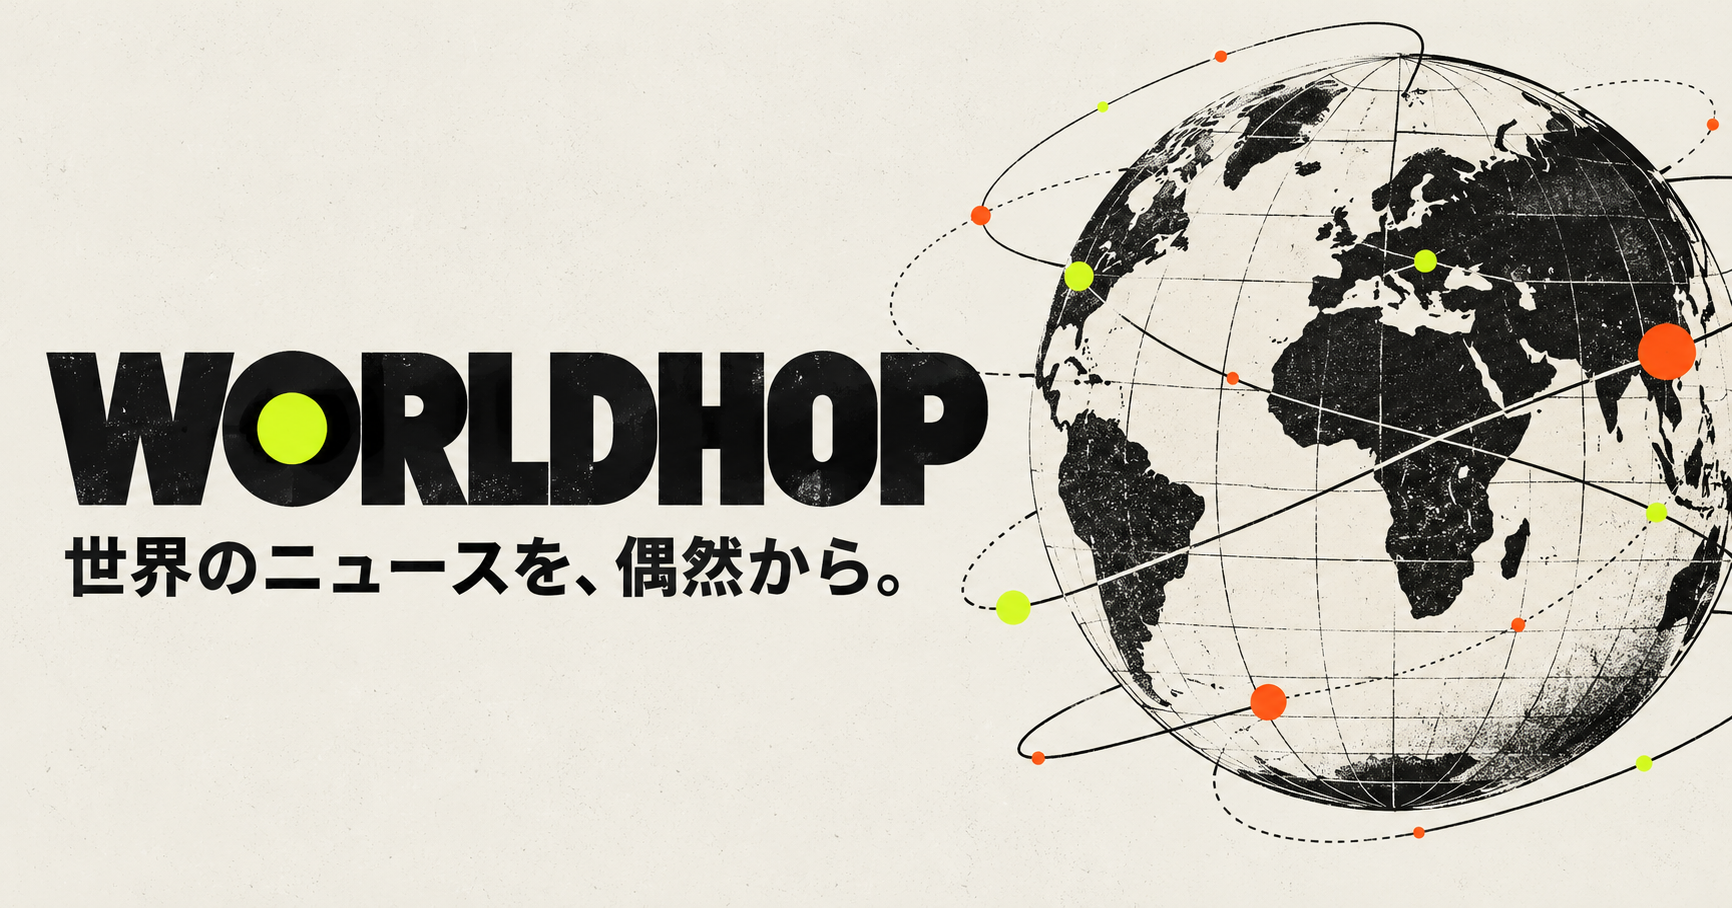
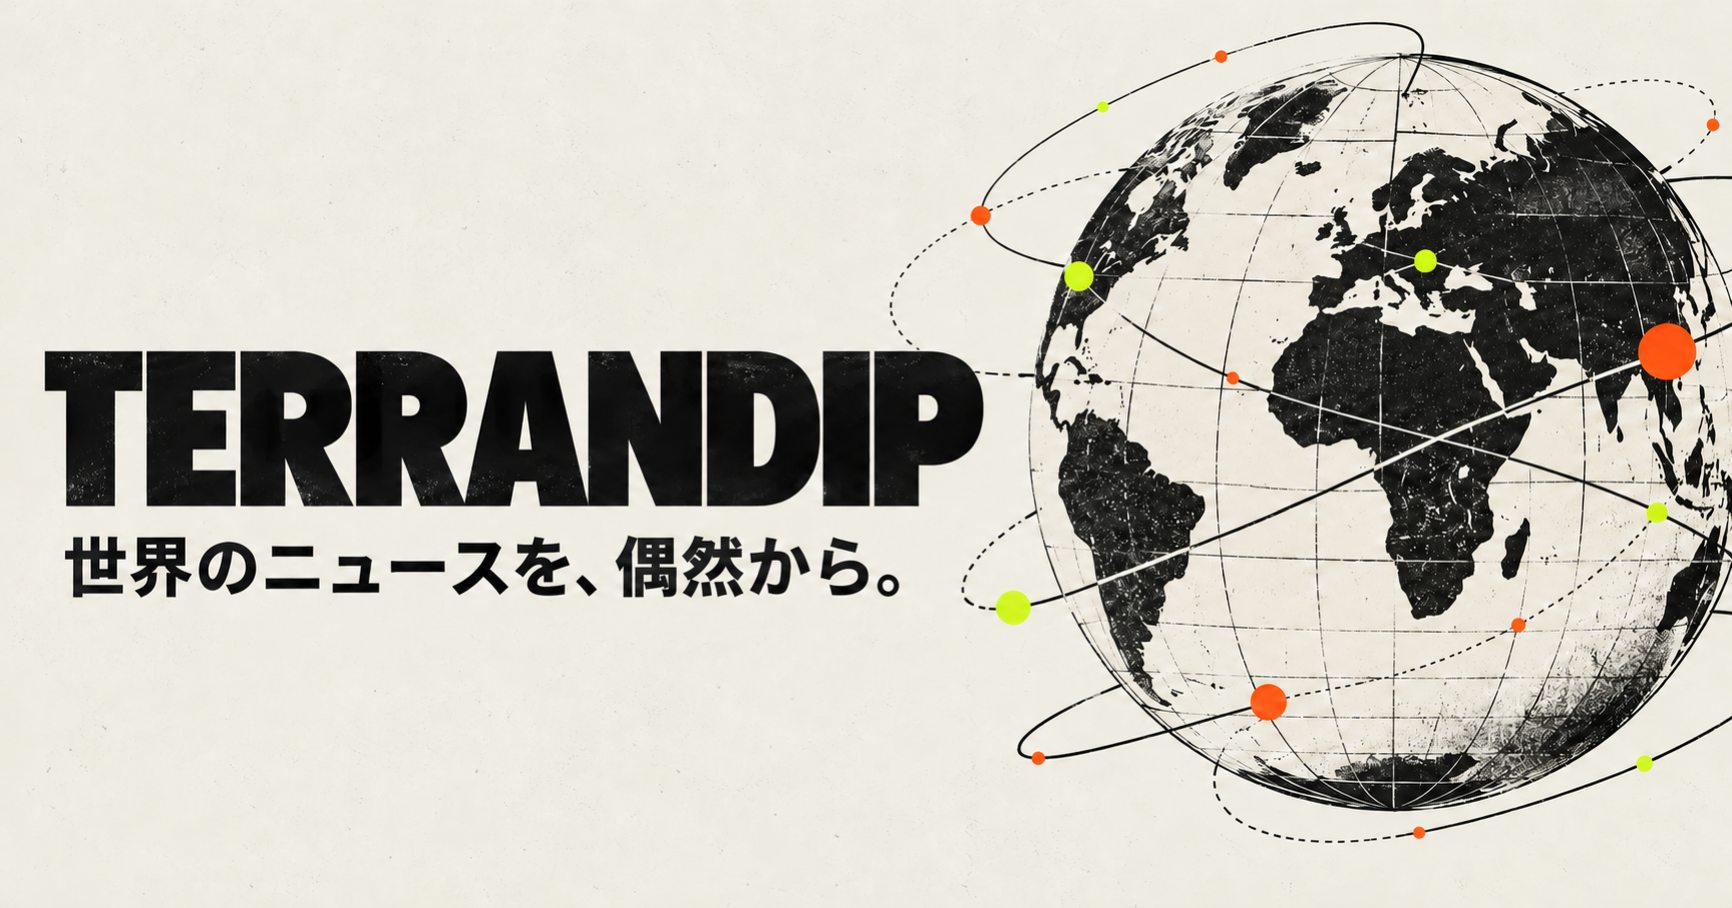
Rename site to TERRANDIP

diff --git a/app/NewsExplorer.tsx b/app/NewsExplorer.tsx
@@ -777,9 +777,9 @@ export function NewsExplorer({ auth }: { auth: AuthState }) {
   return (
     <main className="site-shell">
       <header className="topbar">
-        <a className="brand" href="#top" aria-label="WORLDHOP ホーム">
-          <span className="brand-mark">W</span>
-          <span>WORLDHOP</span>
+        <a className="brand" href="#top" aria-label="TERRANDIP ホーム">
+          <span className="brand-mark">T</span>
+          <span>TERRANDIP</span>
         </a>
         <div className="live-indicator"><i /> LIVE WORLD FEED</div>
         <div className="topbar-actions">
@@ -1055,7 +1055,7 @@ export function NewsExplorer({ auth }: { auth: AuthState }) {
             onMouseDown={(event) => event.stopPropagation()}
           >
             <button className="reader-close" onClick={() => setReaderArticleId(null)} aria-label="詳細を閉じる">×</button>
-            <div className="reader-kicker"><span>WORLDHOP READER</span><span>SHORT SUMMARY</span></div>
+            <div className="reader-kicker"><span>TERRANDIP READER</span><span>SHORT SUMMARY</span></div>
             <h3 id="reader-title">{readerTitle}</h3>
             <div className="reader-meta">
               <div><span>SOURCE</span><strong>{readerArticle.source}</strong></div>
@@ -1092,7 +1092,7 @@ export function NewsExplorer({ auth }: { auth: AuthState }) {
             onMouseDown={(event) => event.stopPropagation()}
           >
             <button className="account-close" onClick={() => setAccountOpen(false)} aria-label="アカウント画面を閉じる">×</button>
-            <span className="account-kicker">WORLDHOP ACCOUNT</span>
+            <span className="account-kicker">TERRANDIP ACCOUNT</span>
             {auth.user ? (
               <>
                 <div className="account-identity">
@@ -1109,7 +1109,7 @@ export function NewsExplorer({ auth }: { auth: AuthState }) {
                 </div>
                 <div className="account-safe-note">
                   <b>パスワードを保存しない設計</b>
-                  <p>ログイン確認はChatGPTが担当します。WORLDHOPにはパスワード、認証トークン、ログイン用Cookieを保存しません。</p>
+                  <p>ログイン確認はChatGPTが担当します。TERRANDIPにはパスワード、認証トークン、ログイン用Cookieを保存しません。</p>
                 </div>
                 <a className="account-signout" href={auth.signOutPath}>ログアウト <span>→</span></a>
               </>
@@ -1117,7 +1117,7 @@ export function NewsExplorer({ auth }: { auth: AuthState }) {
               <>
                 <h2 id="account-title">アカウント作成<br />またはログイン</h2>
                 <p className="account-lead">
-                  ChatGPTの安全なログイン画面を利用します。初回ログイン時にWORLDHOPアカウントが自動で作成されます。
+                  ChatGPTの安全なログイン画面を利用します。初回ログイン時にTERRANDIPアカウントが自動で作成されます。
                 </p>
                 <div className="account-benefits">
                   <div><span>01</span><b>新しいパスワードは不要</b></div>
@@ -1143,15 +1143,15 @@ export function NewsExplorer({ auth }: { auth: AuthState }) {
         <span className="section-number">02</span>
         <p>いつもの視点から、<br /><em>少しだけ遠くへ。</em></p>
         <div className="manifesto-note">
-          <b>WORLDHOP</b>
+          <b>TERRANDIP</b>
           <span>偏りのない世界はない。<br />だからこそ、偶然の入口を。</span>
         </div>
       </section>
 
       <footer>
-        <a className="brand footer-brand" href="#top"><span className="brand-mark">W</span><span>WORLDHOP</span></a>
+        <a className="brand footer-brand" href="#top"><span className="brand-mark">T</span><span>TERRANDIP</span></a>
         <p>NEWS: NEWSDATA.IO · TRANSLATION: DEEPL</p>
-        <p>© 2026 WORLDHOP</p>
+        <p>© 2026 TERRANDIP</p>
       </footer>
     </main>
   );

diff --git a/app/page.tsx b/app/page.tsx
@@ -1,5 +1,5 @@
 import type { Metadata } from "next";
-import { ensureWorldhopAccount } from "../db/accounts";
+import { ensureTerrandipAccount } from "../db/accounts";
 import {
   chatGPTSignInPath,
   chatGPTSignOutPath,
@@ -10,7 +10,7 @@ import { NewsExplorer } from "./NewsExplorer";
 export const dynamic = "force-dynamic";
 
 export const metadata: Metadata = {
-  title: "WORLDHOP — 世界のニュースを、偶然から。",
+  title: "TERRANDIP — 世界のニュースを、偶然から。",
   description:
     "世界中のニュースから、今まで知らなかった一本にランダムで出会えるニュースルーレット。",
 };
@@ -22,11 +22,11 @@ export default async function Home() {
 
   if (user) {
     try {
-      const account = await ensureWorldhopAccount(user);
+      const account = await ensureTerrandipAccount(user);
       accountCreatedAt = account.createdAt;
     } catch (error) {
       accountStorageReady = false;
-      console.error("WORLDHOP account storage is unavailable", error);
+      console.error("TERRANDIP account storage is unavailable", error);
     }
   }
 

diff --git a/app/layout.tsx b/app/layout.tsx
@@ -15,18 +15,18 @@ export async function generateMetadata(): Promise<Metadata> {
 
   return {
     metadataBase: baseUrl,
-    title: "WORLDHOP — 世界のニュースを、偶然から。",
+    title: "TERRANDIP — 世界のニュースを、偶然から。",
     description: "世界のどこかで今起きている出来事へ。ランダムにニュースと出会う、新しい入口。",
     icons: { icon: "/favicon.svg", shortcut: "/favicon.svg" },
     openGraph: {
-      title: "WORLDHOP",
+      title: "TERRANDIP",
       description: "世界のニュースを、偶然から。",
       type: "website",
-      images: [{ url: socialImage, width: 1732, height: 904, alt: "WORLDHOP — 世界のニュースを、偶然から。" }],
+      images: [{ url: socialImage, width: 1732, height: 908, alt: "TERRANDIP — 世界のニュースを、偶然から。" }],
     },
     twitter: {
       card: "summary_large_image",
-      title: "WORLDHOP",
+      title: "TERRANDIP",
       description: "世界のニュースを、偶然から。",
       images: [socialImage],
     },

diff --git a/app/api/translate/route.ts b/app/api/translate/route.ts
@@ -106,7 +106,7 @@ export async function POST(request: NextRequest) {
   if (!pending.size) {
     return NextResponse.json(
       { translations: cacheKeys.map((key) => resolved.get(key) || ""), detectedLanguage: null, cached: true },
-      { headers: { "Cache-Control": "private, no-store, max-age=0", "X-WORLDHOP-Cache": "HIT", "X-Content-Type-Options": "nosniff" } },
+      { headers: { "Cache-Control": "private, no-store, max-age=0", "X-TERRANDIP-Cache": "HIT", "X-Content-Type-Options": "nosniff" } },
     );
   }
 
@@ -163,7 +163,7 @@ export async function POST(request: NextRequest) {
         detectedLanguage: data.translations?.[0]?.detected_source_language || null,
         cached: false,
       },
-      { headers: { "Cache-Control": "private, no-store, max-age=0", "X-WORLDHOP-Cache": "MISS", "X-Content-Type-Options": "nosniff" } },
+      { headers: { "Cache-Control": "private, no-store, max-age=0", "X-TERRANDIP-Cache": "MISS", "X-Content-Type-Options": "nosniff" } },
     );
   } catch (error) {
     if (error instanceof Error && error.name === "AbortError") {

diff --git a/db/accounts.ts b/db/accounts.ts
@@ -3,12 +3,12 @@ import type { ChatGPTUser } from "../app/chatgpt-auth";
 import { getDb } from ".";
 import { users } from "./schema";
 
-export type WorldhopAccount = {
+export type TerrandipAccount = {
   id: string;
   createdAt: string;
 };
 
-export async function ensureWorldhopAccount(user: ChatGPTUser): Promise<WorldhopAccount> {
+export async function ensureTerrandipAccount(user: ChatGPTUser): Promise<TerrandipAccount> {
   const email = user.email.trim().toLowerCase().slice(0, 320);
   const displayName = user.displayName.trim().slice(0, 200) || email;
   if (!email || !email.includes("@")) {

diff --git a/db/schema.ts b/db/schema.ts
@@ -2,7 +2,7 @@ import { sql } from "drizzle-orm";
 import { index, sqliteTable, text } from "drizzle-orm/sqlite-core";
 
 // Authentication itself is owned by the Sites dispatcher. This table stores
-// only the WORLDHOP profile linked to that verified identity—never passwords,
+// only the TERRANDIP profile linked to that verified identity—never passwords,
 // OAuth tokens, cookies, or session secrets.
 export const users = sqliteTable(
   "users",

diff --git a/app/api/news/route.ts b/app/api/news/route.ts
@@ -111,7 +111,7 @@ function successResponse(payload: NewsPayload, cacheStatus: "HIT" | "MISS") {
       headers: {
         "Cache-Control": "public, max-age=60, s-maxage=600, stale-while-revalidate=120",
         "CDN-Cache-Control": "public, s-maxage=600, stale-while-revalidate=120",
-        "X-WORLDHOP-Cache": cacheStatus,
+        "X-TERRANDIP-Cache": cacheStatus,
         "X-Content-Type-Options": "nosniff",
       },
     },
